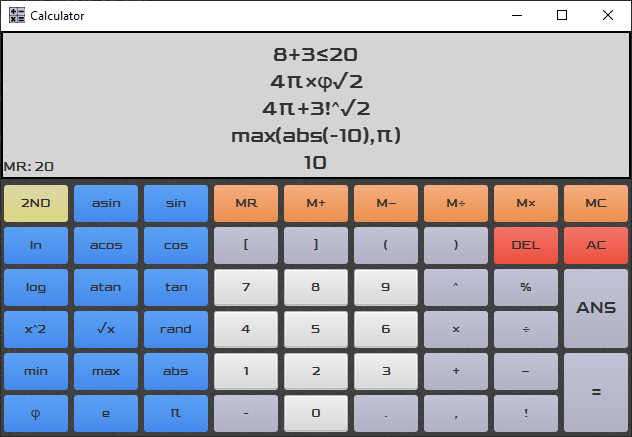
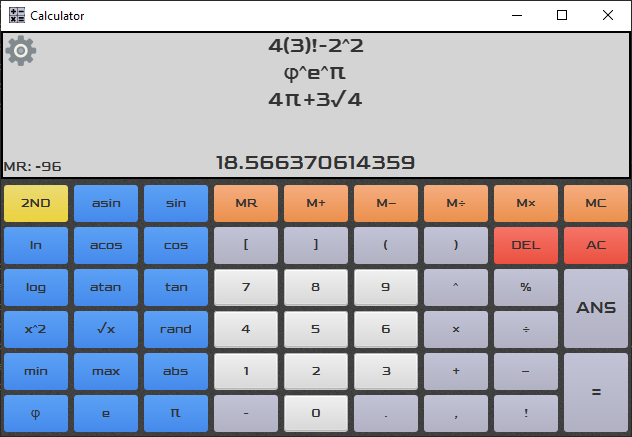
Updated output and README

diff --git a/README.md b/README.md
@@ -10,7 +10,7 @@ This is a project that uses Java and JavaFX to create and design a graphical sci
 | Named Constants            | :white_check_mark: |
 | Resizable Window           | :white_check_mark: |
 | Operation History          | :white_check_mark: |
-| Editable Settings          | :x:                |
+| Editable Settings          | :white_check_mark: |
 | Custom User Functions      | :x:                |
 
 ## Output
